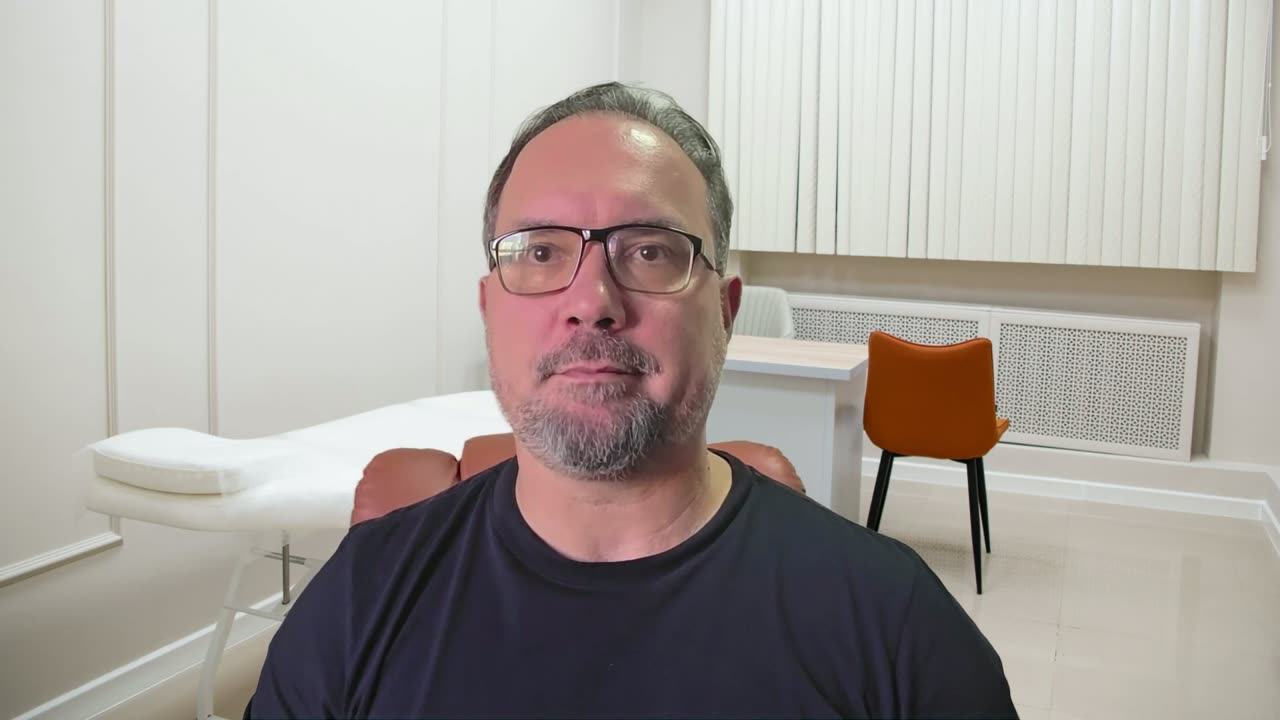
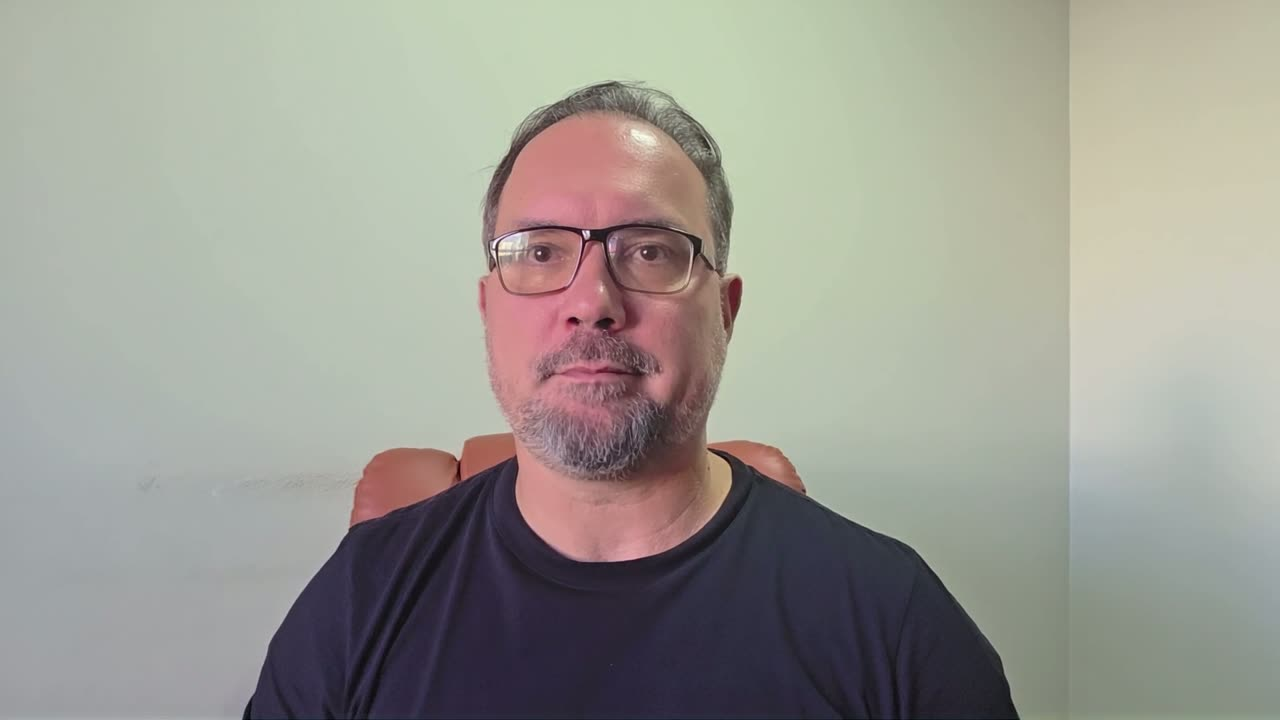
fix(upsell): troca para o video FINAL (fundo liso, sem falha)
- master final: artefatos/Vídeo_Upsell_Curso_Online (1).mp4 (1080p, 97,6MB)
  usa o fundo liso original do avatar -> some o piscar do matte da
  poltrona que aparecia contra a cena de sala da 1a versao
- landing-page/assets/upsell-renato.mp4 recomprimido (720p, 12,6MB,
  +faststart) + poster novo (frame 1,4s)
- .gitignore: masters de video fora do git (o deploy faz git clone no
  servidor; GitHub bloqueia >100MB). Master viaja no HD/disco.
- pagina-upsell.md: documenta master, versao web e o porque do fundo liso

diff --git a/curso/upsell/pagina-upsell.md b/curso/upsell/pagina-upsell.md
@@ -20,9 +20,10 @@ Antes de você abrir, quero te mostrar uma opção especial, pensada para quem q
 
 ## 1. Vídeo curto do Renato ✅ **gravado e embutido**
 
-Gravado com avatar HeyGen, usando o **fundo original do avatar** (sem falhas de composição). **Duração: 2:01.**
+Gravado com avatar HeyGen usando o **fundo liso original do avatar** (parede neutra) — a primeira versão, com uma cena de sala, tinha o matte da poltrona piscando contra o fundo detalhado. Fundo liso resolveu. **Duração: 2:01.**
 
-- **Arquivo web:** `landing-page/assets/upsell-renato.mp4` — 1280×720, H.264, ~9,6 MB, `+faststart` (comprimido do master de 73 MB)
+- **Master (não versionado):** `artefatos/Vídeo_Upsell_Curso_Online (1).mp4` — 1920×1080, 97,6 MB. Fica no disco/HD; está no `.gitignore` porque o deploy faz `git clone` no servidor.
+- **Arquivo web:** `landing-page/assets/upsell-renato.mp4` — 1280×720, H.264 CRF 24, **12,6 MB**, `+faststart`
 - **Poster:** `landing-page/assets/upsell-poster.jpg` (frame de 1,4 s)
 - **Roteiro realmente gravado:** `curso/narracao/UPSELL-video-renato.txt` (fala pura, pausas por pontuação)
 - **Player:** `<video controls poster preload="metadata" playsinline>` em `landing-page/upsell.html`